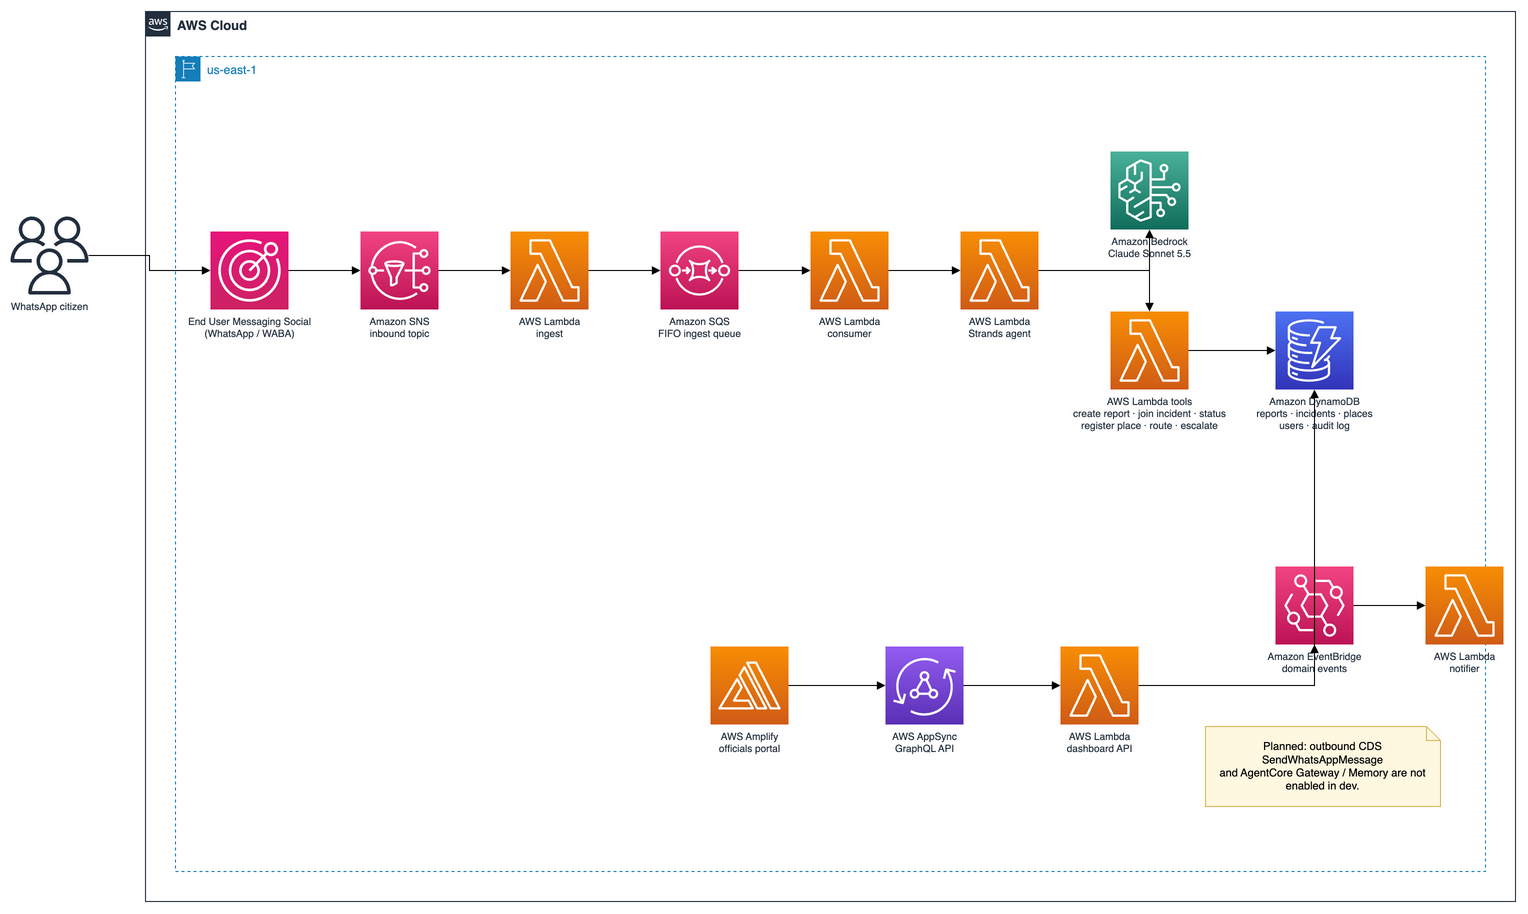
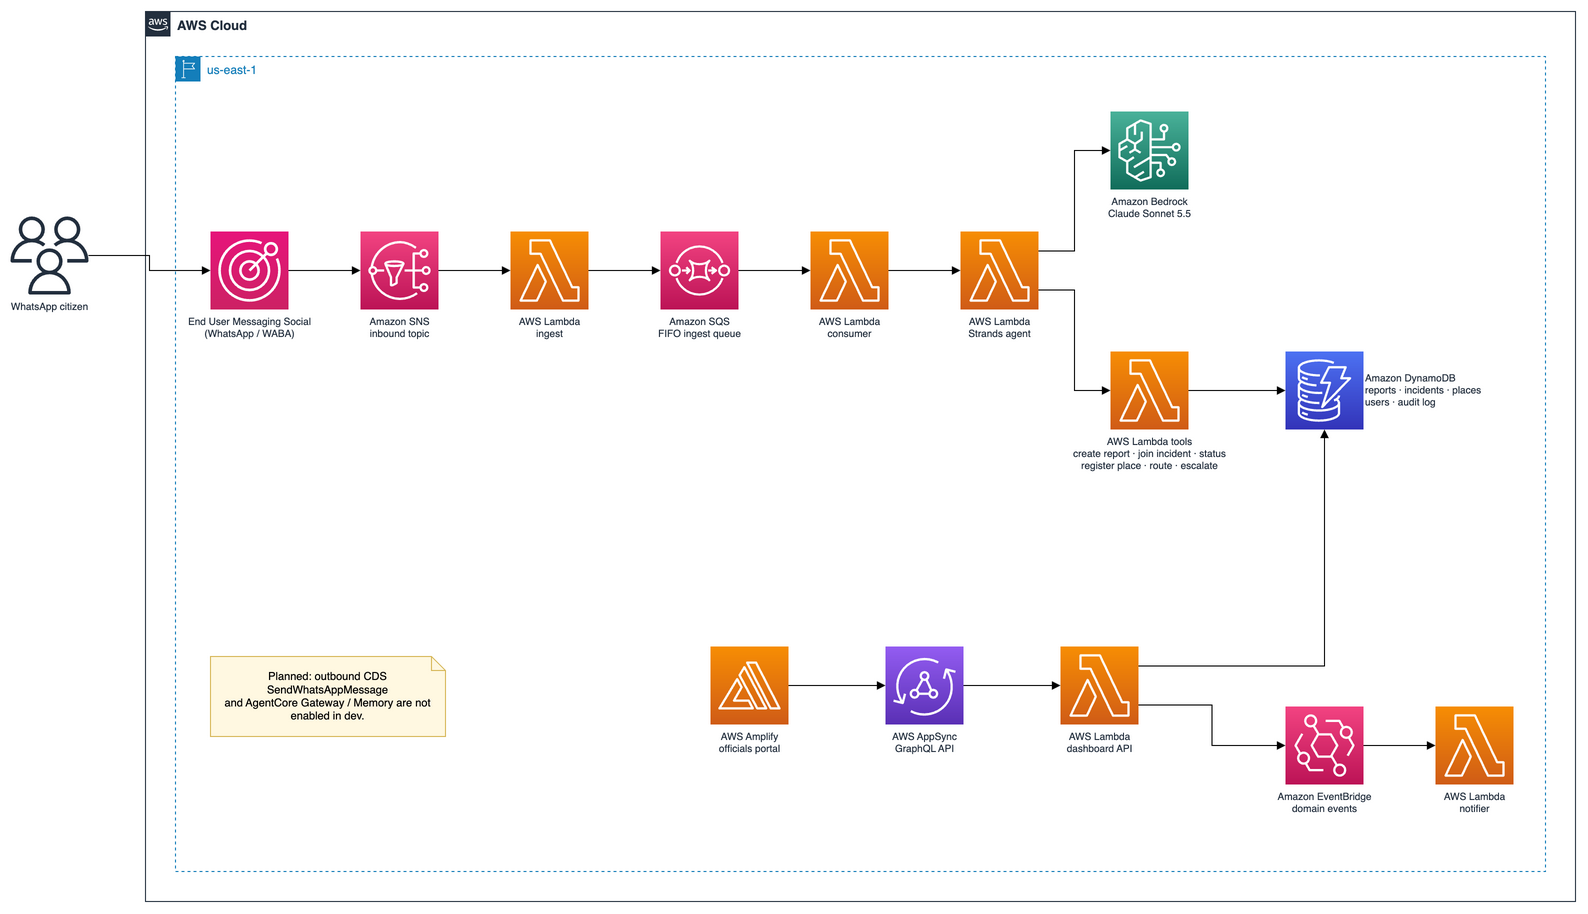
no-mistakes(review): docs: clarify demo reply, unify UrbanBot, untangle diagram

diff --git a/docs/devpost/video-script.md b/docs/devpost/video-script.md
@@ -1,15 +1,15 @@
-# Urbanbot video script (maximum 3:00)
+# UrbanBot video script (maximum 3:00)
 
 | Time | On-screen | Narration | Capture |
 | --- | --- | --- | --- |
-| 0:00–0:20 | A short title, then a resident facing a pothole/leak report on a phone. | “Urban issues are reported every day, but residents often have no clear path to report them or learn what happened next. Urbanbot turns WhatsApp into a direct, trackable civic channel.” | Phone close-up and title card. |
-| 0:20–0:40 | WhatsApp conversation: resident describes an issue and sends location/photo. | “A resident starts where they already are: WhatsApp. Urbanbot is designed to capture a description, location, and media, then turn that message into an operational workflow.” | Real inbound WhatsApp message to +1 319 271 6611, with synthetic data only. |
+| 0:00–0:20 | A short title, then a resident facing a pothole/leak report on a phone. | “Urban issues are reported every day, but residents often have no clear path to report them or learn what happened next. UrbanBot turns WhatsApp into a direct, trackable civic channel.” | Phone close-up and title card. |
+| 0:20–0:40 | WhatsApp conversation: resident describes an issue and sends location/photo. | “A resident starts where they already are: WhatsApp. UrbanBot is designed to capture a description, location, and media, then turn that message into an operational workflow.” | Real inbound WhatsApp message to +1 319 271 6611, with synthetic data only. |
 | 0:40–1:05 | The ingest/queue flow and a report/incident appearing in the portal. | “Inbound WhatsApp events flow through AWS End User Messaging Social, SNS, Lambda, and a FIFO queue. The agent uses constrained tools to create a report or join a nearby incident rather than writing data directly.” | CloudWatch-safe logs with identifiers masked; then portal incident and cluster view. |
-| 1:05–1:30 | Portal incident list, cluster/detail view, map, and report count. | “Instead of creating disconnected tickets, Urbanbot groups nearby reports into an incident. Teams can see the cluster, its priority, and the evidence needed to coordinate a response.” | Incidents page, select a clustered incident, show map and report count. |
+| 1:05–1:30 | Portal incident list, cluster/detail view, map, and report count. | “Instead of creating disconnected tickets, UrbanBot groups nearby reports into an incident. Teams can see the cluster, its priority, and the evidence needed to coordinate a response.” | Incidents page, select a clustered incident, show map and report count. |
 | 1:30–1:55 | Change incident status in the portal, then show updated state. | “An authorized official changes the incident status in the portal. That creates a domain event for the notifier flow, giving the platform a path to proactive resident updates.” | Status-change control and resulting updated incident. Do not claim a WhatsApp delivery. |
 | 1:55–2:20 | Brief role comparison: admin, supervisor, operator views/permissions. | “The portal separates responsibilities: administrators manage the demo and access, supervisors coordinate work, and agency operators work only within their assigned scope.” | Sign in or switch between prepared role sessions; show allowed versus restricted action. |
 | 2:20–2:40 | WhatsApp screen beside portal state. | “The agent conversation and the officials portal are two views of the same workflow: residents report simply, while teams gain actionable, shared context.” | Split screen of the inbound conversation and corresponding portal incident. |
-| 2:40–3:00 | Architecture diagram with the highlighted end-to-end path. | “This serverless architecture keeps the model behind guardrails and scoped Lambda tools, stores operational state in DynamoDB, and connects the portal with AppSync and Amplify. Urbanbot makes civic reporting more visible, coordinated, and accountable.” | `docs/architecture/urbanbot-architecture.png`, zooming across the inbound, agent, portal, and EventBridge paths. |
+| 2:40–3:00 | Architecture diagram with the highlighted end-to-end path. | “This serverless architecture keeps the model behind guardrails and scoped Lambda tools, stores operational state in DynamoDB, and connects the portal with AppSync and Amplify. UrbanBot makes civic reporting more visible, coordinated, and accountable.” | `docs/architecture/urbanbot-architecture.png`, zooming across the inbound, agent, portal, and EventBridge paths. |
 
 ## Recording notes
 

diff --git a/docs/devpost/description.md b/docs/devpost/description.md
@@ -1,12 +1,12 @@
-# Urbanbot
+# UrbanBot
 
 ## Inspiration
 
-Reporting a pothole, leak, broken streetlight, or trash pile should not mean navigating a portal, repeating the same issue to different people, or losing track of what happened next. Urbanbot meets residents in WhatsApp, groups nearby reports into a shared incident, and gives municipal teams a focused operational view.
+Reporting a pothole, leak, broken streetlight, or trash pile should not mean navigating a portal, repeating the same issue to different people, or losing track of what happened next. UrbanBot meets residents in WhatsApp, groups nearby reports into a shared incident, and gives municipal teams a focused operational view.
 
 ## What it does
 
-Urbanbot accepts citizen messages through WhatsApp, normalizes inbound events, and queues them for an agentic workflow. The agent uses Amazon Bedrock and narrowly scoped Lambda tools to create reports, join an existing incident, look up status, register a place, route a request, or escalate an incident. Operational data lives in DynamoDB.
+UrbanBot accepts citizen messages through WhatsApp, normalizes inbound events, and queues them for an agentic workflow. The agent uses Amazon Bedrock and narrowly scoped Lambda tools to create reports, join an existing incident, look up status, register a place, route a request, or escalate an incident. Operational data lives in DynamoDB.
 
 Officials use an AWS Amplify-hosted dashboard backed by AppSync to view incidents, inspect report clusters, change status, and work within role-based permissions. Status changes emit domain events for the notifier flow. The MVP uses synthetic municipal data and does not replace emergency services.
 

diff --git a/README.md b/README.md
@@ -5,7 +5,7 @@ urban infrastructure reporting. Built for the AWS CDS Agentic AI Hackathon.
 
 ## For hackathon judges
 
-Urbanbot helps residents report potholes, leaks, lighting failures, and waste in
+UrbanBot helps residents report potholes, leaks, lighting failures, and waste in
 the WhatsApp channel they already use, while municipal staff work the resulting
 incident clusters in a role-aware portal. It focuses on shared incidents rather
 than isolated tickets, so each additional nearby report can improve visibility
@@ -13,7 +13,7 @@ and prioritization.
 
 ### Architecture
 
-![Urbanbot AWS architecture](docs/architecture/urbanbot-architecture.png)
+![UrbanBot AWS architecture](docs/architecture/urbanbot-architecture.png)
 
 The diagram source is editable in [draw.io](docs/architecture/urbanbot-architecture.drawio).
 Inbound WhatsApp events flow through AWS End User Messaging Social, SNS, ingest
@@ -58,7 +58,7 @@ For example:
 
 ```text
 You: There is a water leak on Calle Example near the park.
-Urbanbot: Please share the location and confirm that you consent to processing this report.
+UrbanBot (generated internally, not delivered): Please share the location and confirm that you consent to processing this report.
 You: I consent. The leak is by the north entrance.
 ```
 

diff --git a/docs/devpost/whatsapp-prize.md b/docs/devpost/whatsapp-prize.md
@@ -1,6 +1,6 @@
-# Best WhatsApp Solution: Urbanbot
+# Best WhatsApp Solution: UrbanBot
 
-Urbanbot is designed around WhatsApp as the citizen channel for urban-infrastructure reports. A resident can send a text, location, or media message to the project WhatsApp number; the inbound path is implemented as **WhatsApp → AWS End User Messaging Social → Amazon SNS → ingest Lambda → Amazon SQS FIFO**.
+UrbanBot is designed around WhatsApp as the citizen channel for urban-infrastructure reports. A resident can send a text, location, or media message to the project WhatsApp number; the inbound path is implemented as **WhatsApp → AWS End User Messaging Social → Amazon SNS → ingest Lambda → Amazon SQS FIFO**.
 
 ## End User Messaging Social and WABA
 
